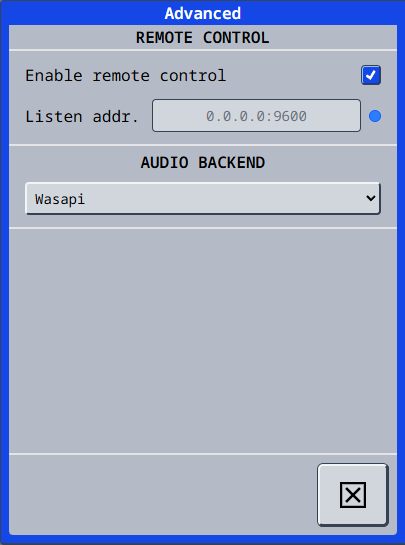
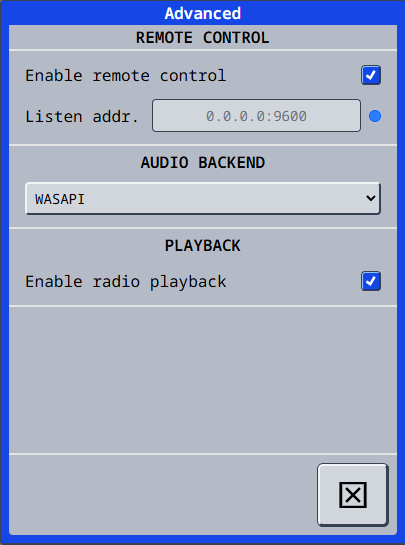
prepare 2.4.0 release notes

diff --git a/docs/settings/advanced.md b/docs/settings/advanced.md
@@ -59,3 +59,9 @@ See [Changing the listen address and port](/using-vacs/remote-control#changing-t
 ## Audio backend
 
 The **Audio Backend** section allows you to configure the audio backend (by default WASAPI for Windows, ALSA for Linux and CoreAudio for macOS) used by vacs. This setting was moved from the main settings page into the advanced settings menu.
+
+## Playback
+
+### Enable radio playback
+
+When checked, vacs will record incoming TrackAudio radio transmissions and make them available for playback. Disabling this setting stops all future recordings and deletes all existing (non-exported) recordings.
